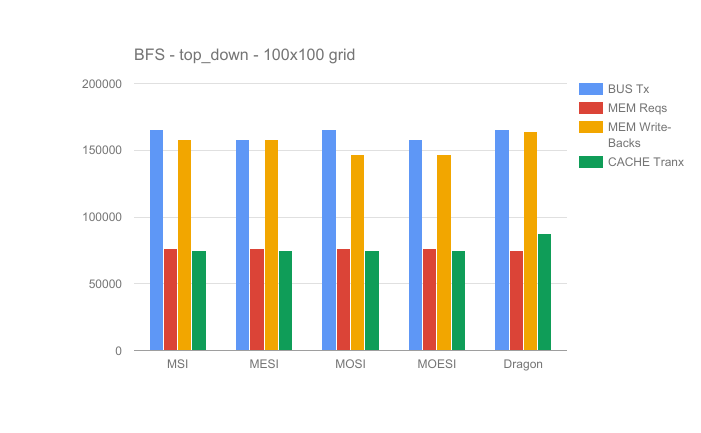
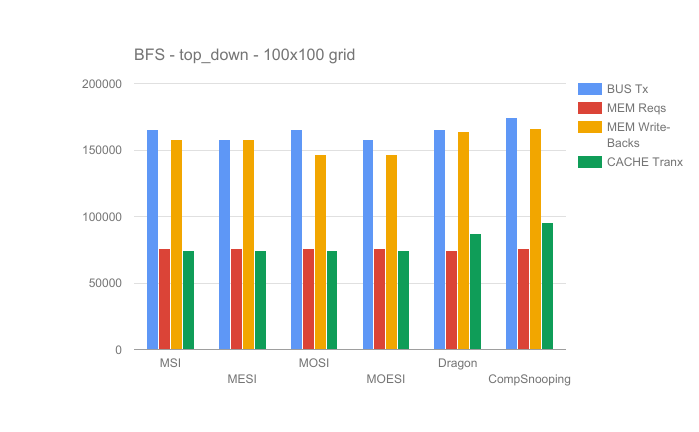
Added comp snooping traces and results for ocean 2

diff --git a/final-report.md b/final-report.md
@@ -35,7 +35,7 @@ intriguing. As it tries to combine the benefit of both write-invalidate and writ
 maintaining a counter for each cache line. On a snooping update it's decremented and on a processor access it's
 incremented. If on a snoop this counter reaches zero, instead of updating we invalidate the line. <br><br>
 > _(\*\*\*) This was not a part of our initial plan for the project, but since we are running ahead of our current schedule,
-we will try our best to get this in before the final deadline._
+we will try our best to get this in before the final deadline. Some preliminary results have been updated now._
 > <br><br>
 > All of these protocols use write-allocate write-back caching. <br>
 > Following are the **State Transition Diagrams** for above protocols. <br>
@@ -193,6 +193,8 @@ present in the array. Locks are not used in this case. <br>
 > ![alt text][pagerank] <br>
 > 10. **BFS**: This is the BFS top-down approach from from Assignment 3 run on grid_100x100. <br>
 > ![alt text][bfs] <br>
+> 11. **Ocean**: This is the splash-2 ocean run with 4 processors and 18x18 grid. <br>
+> ![alt text][ocean] <br>
 > ### We are in the process of adding more graphs here..
 
 ## 4. PLATFORM CHOICE
@@ -269,5 +271,6 @@ rather than invalidating reduced the number of bus transactions. <br>
 [mandelbrot]: https://kshitizdange.github.io/418CacheSim/images/mandelbrot.png "mandelbrot"
 [pagerank]: https://kshitizdange.github.io/418CacheSim/images/pagerank.png "pagerank"
 [bfs]: https://kshitizdange.github.io/418CacheSim/images/bfs.png "bfs"
+[ocean]: https://kshitizdange.github.io/418CacheSim/images/ocean.png "ocean"
 
 
